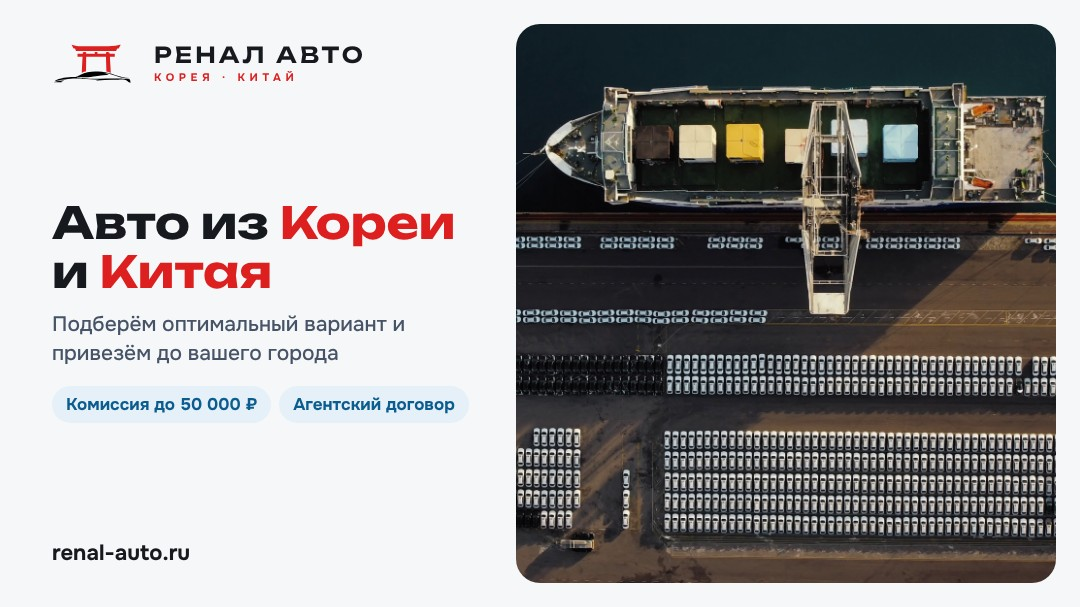
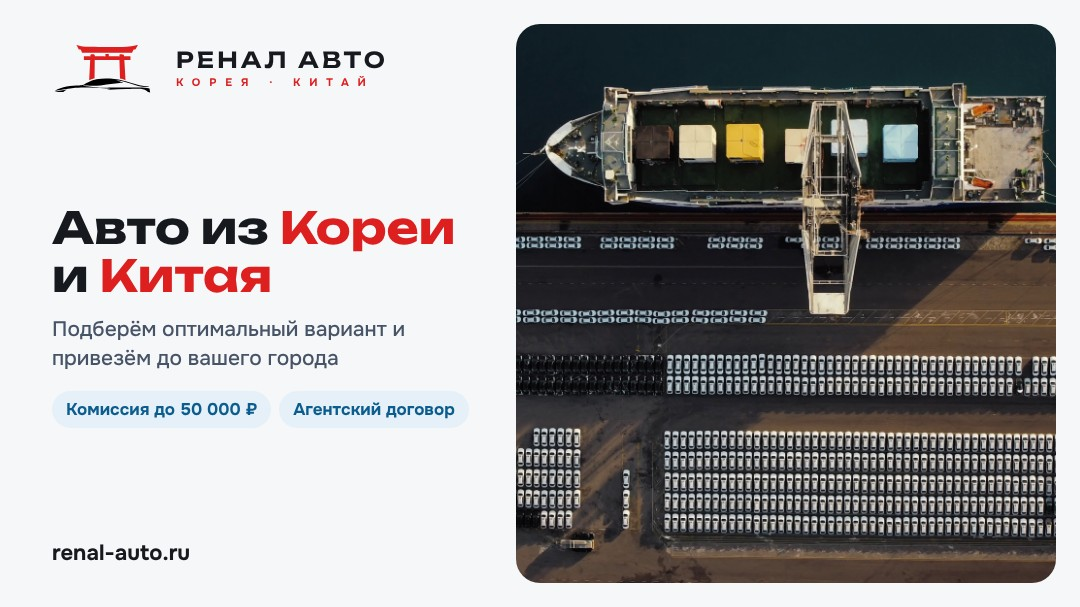
Логотип: знак крупнее, подпись «Корея · Китай» ровно по ширине названия
То же на баннерах Директа и картинке для соцсетей.

Claude-Session: https://claude.ai/code/session_01VpMdufsLMDxyyWuN5c2SYn

diff --git a/renalauto/static/app.css b/renalauto/static/app.css
@@ -27,15 +27,17 @@ img { max-width: 100%; display: block; }
 .top .wrap { display: flex; align-items: center; gap: 22px; min-height: 64px; flex-wrap: wrap; }
 .logo { display: inline-flex; align-items: center; gap: 10px; color: var(--text); }
 .logo:hover { text-decoration: none; }
-.logo-mark { width: 68px; height: 30px; flex: 0 0 auto; object-fit: contain; }
+.logo-mark { width: 92px; height: 41px; flex: 0 0 auto; object-fit: contain; }
 .logo-mark.on-light, .port-page .top .logo-mark.on-dark { display: none; }
 .port-page .top .logo-mark.on-light { display: block; }
 /* подвал светлый (card): знак с чёрной машиной; в тёмной теме — с белой */
 footer .logo-mark.on-dark { display: none; } footer .logo-mark.on-light { display: block; }
 @media (prefers-color-scheme: dark) { :root:not([data-theme="light"]) footer .logo-mark.on-dark { display: block; } :root:not([data-theme="light"]) footer .logo-mark.on-light { display: none; } }
-.logo-word { display: grid; gap: 4px; line-height: 1; }
-.logo-word > span { font: 600 17px/1 Unbounded, Onest, sans-serif; letter-spacing: .14em; }
-.logo-word small { font: 700 9px/1 Onest, system-ui, sans-serif; letter-spacing: .42em; text-transform: uppercase; color: var(--accent); }
+.logo { gap: 12px; }
+/* подпись «Корея · Китай» ровно по ширине названия: разрядка подобрана под Unbounded 600 */
+.logo-word { display: grid; gap: 6px; line-height: 1; padding-top: 2px; }
+.logo-word > span { font: 600 17px/1 Unbounded, Onest, sans-serif; letter-spacing: .14em; margin-right: -.14em; }
+.logo-word small { font: 700 9px/1 Onest, system-ui, sans-serif; letter-spacing: .8em; margin-right: -.8em; text-transform: uppercase; color: var(--accent); }
 .top .logo { color: #fff; }
 .top nav { display: flex; gap: 20px; flex: 1; flex-wrap: wrap; }
 .top nav a { color: rgba(255,255,255,.72); font-weight: 500; }
@@ -201,8 +203,8 @@ table.leads th, table.leads td { border-bottom: 1px solid var(--line); padding: 
 .cta-bar { display: none; }
 @media (max-width: 700px) {
   .top { position: static; }
-  .logo-word > span { font-size: 15px; }
-  .logo-mark { width: 56px; height: 25px; }
+  .logo-word > span { font-size: 15px; } .logo-word small { font-size: 8px; }
+  .logo-mark { width: 72px; height: 32px; }
   .top .wrap { gap: 8px 14px; padding-top: 8px; padding-bottom: 8px; min-height: 0; }
   .top nav { order: 3; flex-basis: 100%; overflow-x: auto; white-space: nowrap; flex-wrap: nowrap; gap: 14px; }
   .top .contacts { margin-left: auto; }
@@ -345,7 +347,7 @@ body.pop-sheet .cta-bar { display: none; }
 .sms-alt { margin: 10px 0 0; text-align: center; }
 .sms-alt a { color: var(--sea); font-weight: 600; }
 .logo-word { white-space: nowrap; }
-@media (max-width: 420px) { .top .logo-word > span { font-size: 13px; letter-spacing: .1em; } .top .logo-word small { font-size: 8px; letter-spacing: .3em; } .top .logo { gap: 6px; } .top .logo-mark { width: 46px; height: 20px; } }
+@media (max-width: 420px) { .top .logo-word > span { font-size: 13px; } .top .logo-word small { font-size: 7px; } .top .logo-word { gap: 5px; } .top .logo { gap: 8px; } .top .logo-mark { width: 60px; height: 27px; } }
 @media (max-width: 700px) { .max-float { display: none; } }
 .port-section { margin: 32px 0 8px; }
 .port-section-head { display: flex; justify-content: space-between; align-items: baseline; gap: 12px; margin-bottom: 12px; }

diff --git a/renalauto/templates/base.html b/renalauto/templates/base.html
@@ -33,8 +33,8 @@ ym({{ ym_id }},"init",{clickmap:true,trackLinks:true,accurateTrackBounce:true,we
 <header class="top">
   <div class="wrap">
     <a class="logo" href="/" aria-label="{{ company }} — на главную">
-      <img class="logo-mark on-dark" src="/static/brand/renal-auto-mark-white.svg" alt="" width="68" height="30">
-      <img class="logo-mark on-light" src="/static/brand/renal-auto-mark.svg" alt="" width="68" height="30">
+      <img class="logo-mark on-dark" src="/static/brand/renal-auto-mark-white.svg" alt="" width="92" height="41">
+      <img class="logo-mark on-light" src="/static/brand/renal-auto-mark.svg" alt="" width="92" height="41">
       <span class="logo-word"><span>{{ company|upper }}</span><small>Корея · Китай</small></span>
     </a>
     <nav>
@@ -57,7 +57,7 @@ ym({{ ym_id }},"init",{clickmap:true,trackLinks:true,accurateTrackBounce:true,we
 <footer>
   <div class="wrap foot">
     <div class="foot-brand">
-      <a class="logo" href="/"><img class="logo-mark on-dark" src="/static/brand/renal-auto-mark-white.svg" alt="" width="68" height="30"><img class="logo-mark on-light" src="/static/brand/renal-auto-mark.svg" alt="" width="68" height="30"><span class="logo-word"><span>{{ company|upper }}</span><small>Корея · Китай</small></span></a>
+      <a class="logo" href="/"><img class="logo-mark on-dark" src="/static/brand/renal-auto-mark-white.svg" alt="" width="92" height="41"><img class="logo-mark on-light" src="/static/brand/renal-auto-mark.svg" alt="" width="92" height="41"><span class="logo-word"><span>{{ company|upper }}</span><small>Корея · Китай</small></span></a>
       <p>Авто из Кореи и Китая под заказ: подбор, проверка, выкуп и доставка до вашего города.</p>
     </div>
     {% block footer_mid %}{% endblock %}

diff --git a/docs/banners/banner.html b/docs/banners/banner.html
@@ -6,10 +6,10 @@
 .ph{position:absolute;background-size:cover;background-position:center}
 .panel{position:absolute;display:flex;flex-direction:column;justify-content:space-between}
 .logo{display:flex;align-items:center;gap:14px}
-.logo img{width:88px}
+.logo img{width:110px}
 .logo span{display:grid;gap:6px}
-.logo b{font:600 22px/1 Unbounded,sans-serif;letter-spacing:.14em;color:#16191d}
-.logo small{font:700 11px/1 Onest,sans-serif;letter-spacing:.42em;color:#dd1f1f;text-transform:uppercase}
+.logo b{font:600 22px/1 Unbounded,sans-serif;letter-spacing:.14em;margin-right:-.14em;color:#16191d}
+.logo small{font:700 11px/1 Onest,sans-serif;letter-spacing:.8em;margin-right:-.8em;color:#dd1f1f;text-transform:uppercase}
 h1{font:700 44px/1.1 Unbounded,sans-serif;margin:0;color:#16191d}
 h1 em{font-style:normal;color:#dd1f1f}
 p{margin:14px 0 0;font-size:21px;line-height:1.38;color:#475467}
@@ -27,7 +27,7 @@ p{margin:14px 0 0;font-size:21px;line-height:1.38;color:#475467}
 
 .s .panel{left:0;right:0;bottom:0;height:43%;padding:16px 60px 48px}
 .s h1{font-size:74px} .s p{font-size:30px;margin-top:18px} .s .facts span{font-size:24px;padding:10px 18px} .s .dom{font-size:28px}
-.s .logo img{width:112px} .s .logo b{font-size:28px} .s .logo small{font-size:13px}
+.s .logo img{width:134px} .s .logo b{font-size:28px} .s .logo small{font-size:13px}
 .s .logo{position:absolute;left:56px;top:56px;background:rgba(246,247,249,.94);padding:14px 20px;border-radius:16px}
 </style></head><body><div id="root"></div>
 <script>
